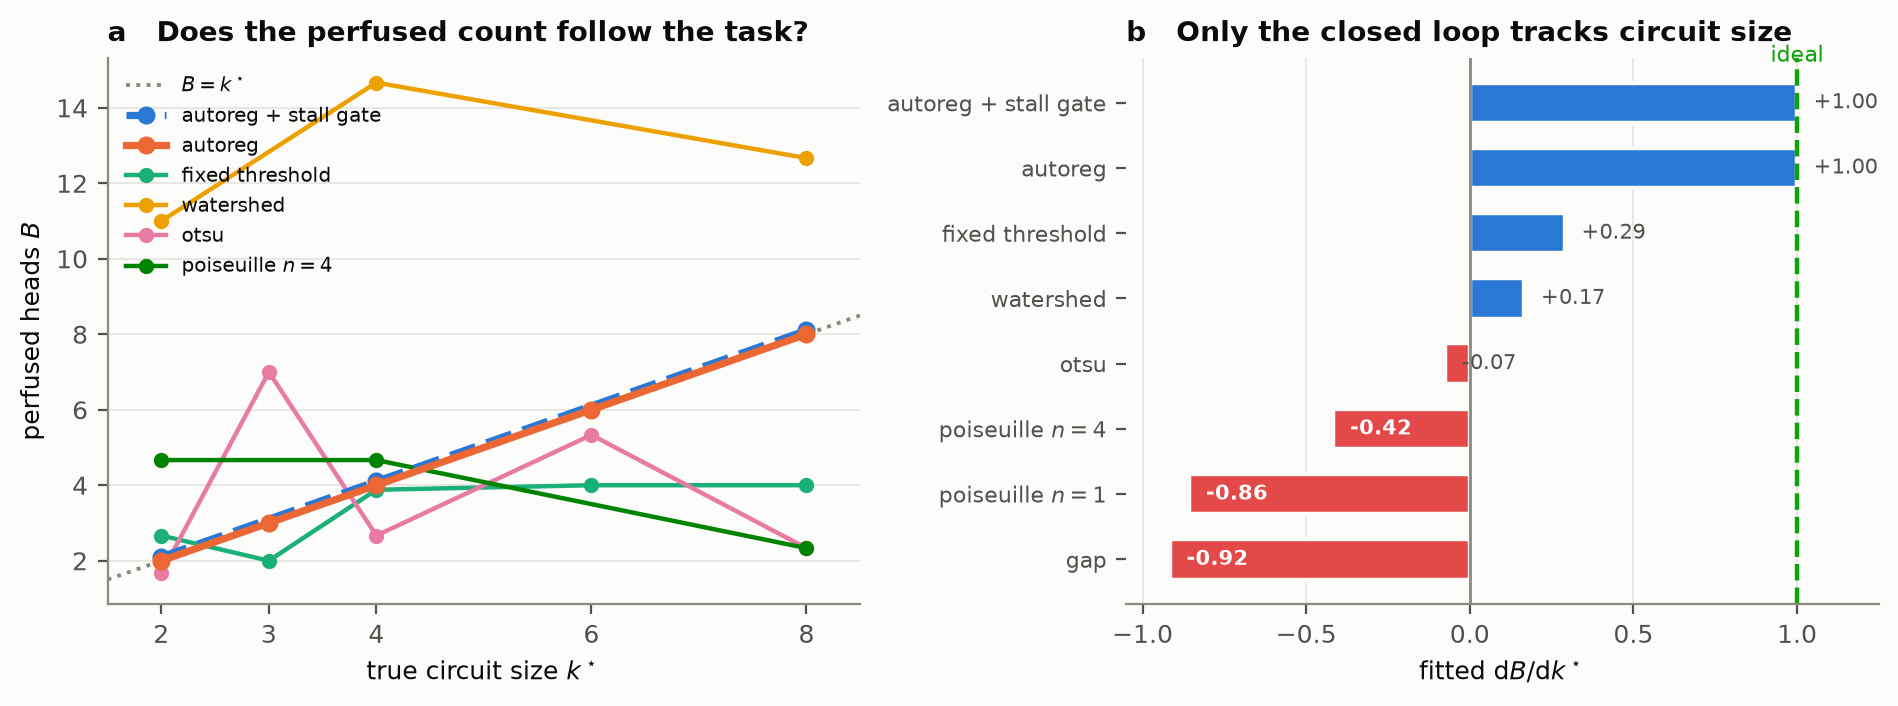
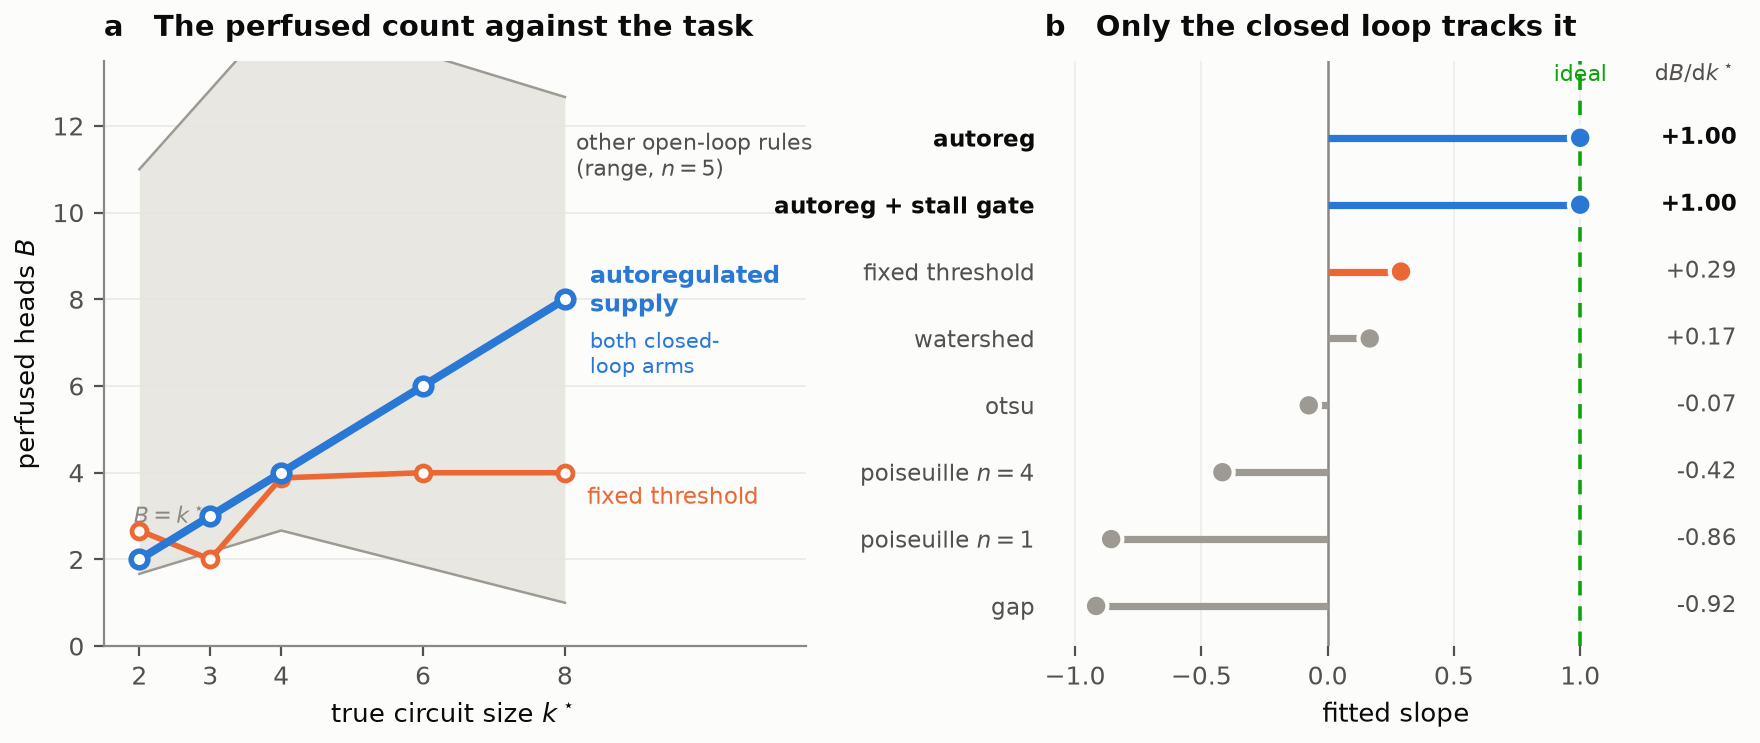
Figure and table redesign: three series in the chart, all eight in the table
Eight labelled series is a table, not a chart. Panel a now shows only what the argument
needs: the autoregulated arms (identical in B, so drawn as one line, since the stall
gate's contribution is role recovery rather than count), the fixed threshold that
Theorem 1 is about, and a shaded envelope for the remaining five open-loop rules. Direct
labels replace the legend box. Panel b keeps every arm as a lollipop with the values in
a fixed right-hand column, so a negative slope's label can no longer collide with the
row names, and the closed-loop rows are the only ones in full ink.

The table keeps all eight arms but groups them under closed loop and open loop, which is
the paper's actual claim. Those grouping rows matter: gap and otsu are NOT fixed-quantile
rules, so their failure is evidence the problem is broader than Theorem 1 proves, and
dropping them would weaken the result rather than tidy it. Fixed a missing line
terminator that was merging the two header rows.

Claude-Session: https://claude.ai/code/session_0158h6yXwQs1EL2yRn7qokhe

diff --git a/experiments/paper_assets.py b/experiments/paper_assets.py
@@ -77,82 +77,139 @@ def stats(d):
     return out
 
 
+CLOSED = ("autoreg", "autoreg + stall gate")
+
+
 def write_table(st, path):
-    order = sorted(st, key=lambda a: (abs(st[a]["slope"] - 1.0)
-                                      if st[a]["slope"] == st[a]["slope"] else 9))
-    lines = [r"% GENERATED by experiments/paper_assets.py. Do not edit.",
-             r"\begin{tabular}{lrrrrr}", r"\toprule",
-             r"supply rule & $\mathrm{d}B/\mathrm{d}k^\star$ & MAE (heads) & "
-             r"role cov. & val MSE & seeds \\", r"\midrule"]
-    for a in order:
-        s = st[a]
-        sl = "--" if s["slope"] != s["slope"] else f"{s['slope']:.2f}"
-        name = r"\textbf{" + a + "}" if a.startswith("autoreg + stall") else a
-        eol = r" \\"
-        lines.append(f"{name} & {sl} & " + f"{s['mae']:.2f} & {s['cov']:.2f} & "
-                     + f"{s['loss']:.4f} & {s['n']}" + eol)
-    lines += [r"\midrule",
-              r"ideal & 1.00 & 0.00 & 1.00 & --- & --- \\",
-              r"\bottomrule", r"\end{tabular}"]
+    """Grouped by what the paper argues: closed loop against open loop. All arms are
+    itemised here even though the figure collapses the failures, because the open-loop
+    rules that are NOT fixed-quantile (gap, otsu) are evidence the failure is broader
+    than Theorem 1 proves."""
+    def block(names):
+        out = []
+        for a in sorted(names, key=lambda a: -(st[a]["slope"] if st[a]["slope"] == st[a]["slope"] else -9)):
+            v = st[a]
+            sl = "---" if v["slope"] != v["slope"] else f"{v['slope']:+.2f}"
+            nm = r"\textbf{" + a + "}" if a == "autoreg + stall gate" else a
+            out.append(f"{nm} & {sl} & " + f"{v['mae']:.2f} & {v['cov']:.2f} & "
+                       + f"{v['loss']:.4f} & {v['n']}" + r" \\")
+        return out
+
+    closed = [a for a in st if a in CLOSED]
+    openl = [a for a in st if a not in CLOSED]
+    L = [r"% GENERATED by experiments/paper_assets.py. Do not edit.",
+         r"\begin{tabular}{@{}lccccc@{}}", r"\toprule",
+         r"& $\mathrm{d}B/\mathrm{d}k^\star$ & MAE & role & val & \\\\",
+         r"supply rule & (ideal $1.00$) & (heads) & cov. & MSE & $n$ \\",
+         r"\midrule",
+         r"\multicolumn{6}{@{}l}{\emph{closed loop: supply answers to a metabolic deficit}} \\"]
+    L += block(closed)
+    L += [r"\addlinespace[2pt]", r"\midrule",
+          r"\multicolumn{6}{@{}l}{\emph{open loop: supply answers to the demand distribution}} \\"]
+    L += block(openl)
+    L += [r"\bottomrule", r"\end{tabular}"]
     with open(path, "w") as f:
-        f.write("\n".join(lines) + "\n")
-    return order
+        f.write("\n".join(L) + "\n")
+    return sorted(st, key=lambda a: -(st[a]["slope"] if st[a]["slope"] == st[a]["slope"] else -9))
 
 
 def fig_arms(st, order, path):
-    fig, axes = plt.subplots(1, 2, figsize=(9.6, 3.6))
+    """Three things are shown and nothing else: the closed loop, the rule Theorem 1 is
+    about, and the envelope of everything else. Eight labelled series is a table."""
+    MUTE, BAND = "#9c9a93", "#e9e7e1"
+    fig, axes = plt.subplots(1, 2, figsize=(10.6, 3.8),
+                             gridspec_kw=dict(width_ratios=[1.0, 1.0], wspace=0.34))
+
+    # ---------------- a: tracking ----------------
     ax = axes[0]
     allR = sorted({R for a in st for R in st[a]["Rs"]})
-    lim = [min(allR) - 0.5, max(allR) + 0.5]
-    ax.plot(lim, lim, color=INK3, lw=1.4, ls=":", label=r"$B=k^\star$")
-    for i, a in enumerate(order[:6]):
-        s = st[a]
-        auto = a.startswith("autoreg")
-        # the two closed-loop arms coincide exactly, so the second is dashed and nudged
-        # rather than drawn invisibly underneath the first
-        dy = 0.10 if a.startswith("autoreg + ") else 0.0
-        ax.plot(s["Rs"], [b + dy for b in s["B"]], color=CAT[i % len(CAT)],
-                lw=2.6 if auto else 1.6, ls="--" if dy else "-",
-                marker="o", ms=5.5 if auto else 4.5, label=a,
-                zorder=6 if auto else 2)
-    ax.set_xticks(allR); ax.set_xlim(*lim)
-    ax.set_xlabel(r"true circuit size $k^\star$")
-    ax.set_ylabel(r"perfused heads $B$")
-    ax.set_title("a   Does the perfused count follow the task?", loc="left",
-                 fontweight="bold")
-    ax.grid(axis="y", alpha=0.9); ax.set_axisbelow(True)
+    others = [a for a in st if a not in CLOSED and a != "fixed threshold"
+              and len(st[a]["Rs"]) >= 3]
+    grid = [R for R in allR if all(R in st[a]["Rs"] for a in others)] or allR
+    lo = [min(np.interp(R, st[a]["Rs"], st[a]["B"]) for a in others) for R in grid]
+    hi = [max(np.interp(R, st[a]["Rs"], st[a]["B"]) for a in others) for R in grid]
+    ax.fill_between(grid, lo, hi, color=BAND, zorder=0, lw=0)
+    ax.plot(grid, hi, color=MUTE, lw=0.9, zorder=1)
+    ax.plot(grid, lo, color=MUTE, lw=0.9, zorder=1)
+    ytop = max(allR) + 5.5
+    xi = int(np.argmax(hi))
+    ax.annotate("other open-loop rules\n(range, $n{=}%d$)" % len(others),
+                (grid[min(xi + 1, len(grid) - 1)], min(ytop * 0.90, max(hi))),
+                textcoords="offset points", xytext=(4, -4), fontsize=7.8,
+                color=INK2, va="top", ha="left")
+
+    ax.plot(allR, allR, color=INK3, lw=1.0, ls=(0, (1, 2.4)), zorder=2)
+    ax.annotate(r"$B=k^\star$", (allR[0], allR[0]), textcoords="offset points",
+                xytext=(-2, 11), fontsize=8, color=INK3, style="italic",
+                va="bottom", ha="left")
+
+    ft = st.get("fixed threshold")
+    if ft:
+        ax.plot(ft["Rs"], ft["B"], color=CAT[1], lw=2.0, marker="o", ms=5.4,
+                mfc=SURFACE, mew=1.7, mec=CAT[1], zorder=5, solid_capstyle="round")
+        ax.annotate("fixed threshold", (ft["Rs"][-1], ft["B"][-1]),
+                    textcoords="offset points", xytext=(8, -9), fontsize=8.4,
+                    color=CAT[1], va="center")
+    # the two closed-loop arms give identical B, so one line carries both; the stall
+    # gate's contribution is role recovery, which panel b and the table report
+    cl = max((a for a in CLOSED if a in st), key=lambda a: len(st[a]["Rs"]), default=None)
+    if cl:
+        v = st[cl]
+        ax.plot(v["Rs"], v["B"], color=CAT[0], lw=2.9, marker="o", ms=6.0,
+                mfc=SURFACE, mew=2.0, mec=CAT[0], zorder=6, solid_capstyle="round")
+        ax.annotate("autoregulated\nsupply", (v["Rs"][-1], v["B"][-1]),
+                    textcoords="offset points", xytext=(9, 3), fontsize=8.6,
+                    color=CAT[0], va="center", fontweight="bold")
+        ax.annotate("both closed-\nloop arms", (v["Rs"][-1], v["B"][-1]),
+                    textcoords="offset points", xytext=(9, -20), fontsize=7.4,
+                    color=CAT[0], va="center")
+    ax.set_xticks(allR)
+    ax.set_xlim(allR[0] - 0.5, allR[-1] + 3.4)
+    ax.set_ylim(0, ytop)
+    ax.set_xlabel(r"true circuit size $k^\star$", fontsize=9.5)
+    ax.set_ylabel(r"perfused heads $B$", fontsize=9.5)
+    ax.set_title("a   The perfused count against the task", loc="left", color=INK,
+                 fontsize=10.5, fontweight="bold", pad=9)
+    ax.grid(axis="y", alpha=0.7, lw=0.7); ax.set_axisbelow(True)
     for sp in ("top", "right"):
         ax.spines[sp].set_visible(False)
-    ax.legend(loc="upper left", fontsize=7.2)
 
+    # ---------------- b: slope, as a lollipop with a value column ----------------
     ax = axes[1]
     ok = [a for a in order if st[a]["slope"] == st[a]["slope"]]
     y = np.arange(len(ok))
     sl = [st[a]["slope"] for a in ok]
-    ax.barh(y, sl, height=0.62, color=[CAT[0] if v >= 0 else CAT[7] for v in sl],
-            edgecolor=SURFACE, linewidth=1.6)
-    ax.axvline(1.0, color=GOOD, lw=1.6, ls="--")
-    ax.text(1.0, -0.72, "ideal", color=GOOD, fontsize=8, va="center", ha="center")
-    ax.axvline(0, color=INK3, lw=1)
-    for i, v in enumerate(sl):
-        inside = v < -0.15                  # negative labels sit inside the bar, so they
-        ax.annotate(f"{v:+.2f}", (v, i),    # cannot collide with the row names
-                    textcoords="offset points",
-                    xytext=(6 if (v >= 0 or not inside) else 6, 0),
-                    va="center", ha="left",
-                    fontsize=7.5, color="white" if inside else INK2,
-                    fontweight="bold" if inside else "normal")
-    ax.set_yticks(y); ax.set_yticklabels(ok, fontsize=8)
-    ax.set_xlim(min(-1.05, min(sl) - 0.1), 1.25)
-    ax.invert_yaxis()
-    ax.set_xlabel(r"fitted $\mathrm{d}B/\mathrm{d}k^\star$")
-    ax.set_title("b   Only the closed loop tracks circuit size", loc="left",
-                 fontweight="bold")
-    ax.grid(axis="x", alpha=0.9); ax.set_axisbelow(True)
-    for sp in ("top", "right", "left"):
+    cols = [CAT[0] if a in CLOSED else (CAT[1] if a == "fixed threshold" else MUTE)
+            for a in ok]
+    XCOL = 1.62                                        # fixed column for the numbers
+    ax.axvline(1.0, color=GOOD, lw=1.3, ls=(0, (4, 3)), zorder=1)
+    ax.axvline(0, color=INK3, lw=0.9, zorder=2)
+    ax.hlines(y, 0, sl, color=cols, lw=2.6, zorder=3)
+    ax.scatter(sl, y, s=66, c=cols, zorder=4, edgecolor=SURFACE, linewidth=1.5)
+    for i_, (a, v) in enumerate(zip(ok, sl)):
+        ax.annotate(f"{v:+.2f}", (XCOL, i_), fontsize=8.4, va="center", ha="right",
+                    color=INK if a in CLOSED else INK2,
+                    fontweight="bold" if a in CLOSED else "normal")
+    ax.set_yticks(y)
+    ax.set_yticklabels(ok, fontsize=8.3)
+    for t, a in zip(ax.get_yticklabels(), ok):
+        t.set_color(INK if a in CLOSED else INK2)
+        if a in CLOSED:
+            t.set_fontweight("bold")
+    ax.tick_params(axis="y", length=0)
+    ax.set_xlim(min(-1.12, min(sl) - 0.12), XCOL + 0.04)
+    ax.set_ylim(len(ok) - 0.4, -1.15)
+    ax.set_xticks([-1, -0.5, 0, 0.5, 1])
+    ax.annotate("ideal", (1.0, -0.85), fontsize=8, color=GOOD, ha="center")
+    ax.annotate(r"$\mathrm{d}B/\mathrm{d}k^\star$", (XCOL, -0.85), fontsize=8,
+                color=INK2, ha="right")
+    ax.set_xlabel(r"fitted slope", fontsize=9.5)
+    ax.set_title("b   Only the closed loop tracks it", loc="left", color=INK,
+                 fontsize=10.5, fontweight="bold", pad=9)
+    ax.grid(axis="x", alpha=0.55, lw=0.7); ax.set_axisbelow(True)
+    for sp in ("top", "right", "left", "bottom"):
         ax.spines[sp].set_visible(False)
-    fig.tight_layout()
-    fig.savefig(path, bbox_inches="tight")
+    fig.savefig(path, bbox_inches="tight", pad_inches=0.07)
     plt.close(fig)
 
 

diff --git a/paper/main.tex b/paper/main.tex
@@ -257,19 +257,22 @@ to respect a rate that varies.
   \centering
   \includegraphics[width=0.96\textwidth]{../figures/fig_arms.png}
   \caption{\textbf{Only the closed loop tracks circuit size.} (a) Perfused count against
-  true circuit size, median over the converged phase. The two autoregulated arms coincide
-  and lie on the identity; the dashed line is the stall-gated arm, offset for visibility.
-  (b) Fitted $\mathrm{d}B/\mathrm{d}k^\star$. Three open-loop rules have \emph{negative}
-  slope. Poiseuille is the informative failure: its perfused set is identical to the fixed
-  threshold's by construction and only the shares differ, yet it scores worse, so
-  selection rather than allocation is the binding problem.}
+  true circuit size, median over the converged phase. Both autoregulated arms give
+  identical $B$ and are drawn as one line, which lies on the identity; the stall gate's
+  contribution is role recovery, not count. The band spans the remaining open-loop rules.
+  (b) Fitted $\mathrm{d}B/\mathrm{d}k^\star$ for every arm. Three open-loop rules have
+  \emph{negative} slope. Poiseuille is the informative failure: its perfused set is
+  identical to the fixed threshold's by construction and only the shares within it
+  differ, yet it scores worse, so selection rather than allocation is the binding
+  problem.}
   \label{fig:arms}
 \end{figure*}
 
 \begin{table}[t]
   \centering\small
   \input{results_table.tex}
-  \caption{Supply rules on \texttt{multi\_relation}, $H{=}32$, $d_k{=}32$, $N{=}16$,
+  \caption{Supply rules on \texttt{multi\_relation}, grouped by whether supply answers
+  to task performance or only to the demand distribution. $H{=}32$, $d_k{=}32$, $N{=}16$,
   $k^\star \in \{2,\dots,8\}$. $\mathrm{d}B/\mathrm{d}k^\star$ is fitted over the
   circuit sizes run; MAE is $|B - k^\star|$ in heads; role coverage is the fraction of
   true offsets recovered. Generated from the run pickles, not transcribed.}

diff --git a/paper/results_table.tex b/paper/results_table.tex
@@ -1,17 +1,20 @@
 % GENERATED by experiments/paper_assets.py. Do not edit.
-\begin{tabular}{lrrrrr}
+\begin{tabular}{@{}lccccc@{}}
 \toprule
-supply rule & $\mathrm{d}B/\mathrm{d}k^\star$ & MAE (heads) & role cov. & val MSE & seeds \\
+& $\mathrm{d}B/\mathrm{d}k^\star$ & MAE & role & val & \\\\
+supply rule & (ideal $1.00$) & (heads) & cov. & MSE & $n$ \\
 \midrule
-\textbf{autoreg + stall gate} & 1.00 & 0.00 & 0.83 & 0.0275 & 2 \\
-autoreg & 1.00 & 0.00 & 0.74 & 0.0619 & 3 \\
-fixed threshold & 0.29 & 1.56 & 0.62 & 0.2736 & 3 \\
-watershed & 0.17 & 8.11 & 0.97 & 0.0002 & 3 \\
+\multicolumn{6}{@{}l}{\emph{closed loop: supply answers to a metabolic deficit}} \\
+autoreg & +1.00 & 0.00 & 0.74 & 0.0619 & 3 \\
+\textbf{autoreg + stall gate} & +1.00 & 0.00 & 0.81 & 0.0206 & 3 \\
+\addlinespace[2pt]
+\midrule
+\multicolumn{6}{@{}l}{\emph{open loop: supply answers to the demand distribution}} \\
+fixed threshold & +0.29 & 1.56 & 0.62 & 0.2736 & 3 \\
+watershed & +0.17 & 8.11 & 0.97 & 0.0002 & 3 \\
 otsu & -0.07 & 2.40 & 0.69 & 0.2751 & 3 \\
 poiseuille $n{=}4$ & -0.42 & 3.00 & 0.67 & 0.3220 & 3 \\
 poiseuille $n{=}1$ & -0.86 & 4.33 & 0.71 & 0.2942 & 3 \\
 gap & -0.92 & 6.53 & 0.77 & 0.1992 & 3 \\
-\midrule
-ideal & 1.00 & 0.00 & 1.00 & --- & --- \\
 \bottomrule
 \end{tabular}
